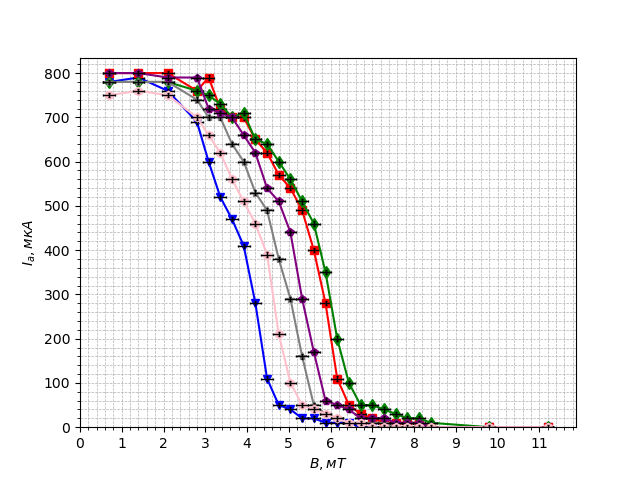
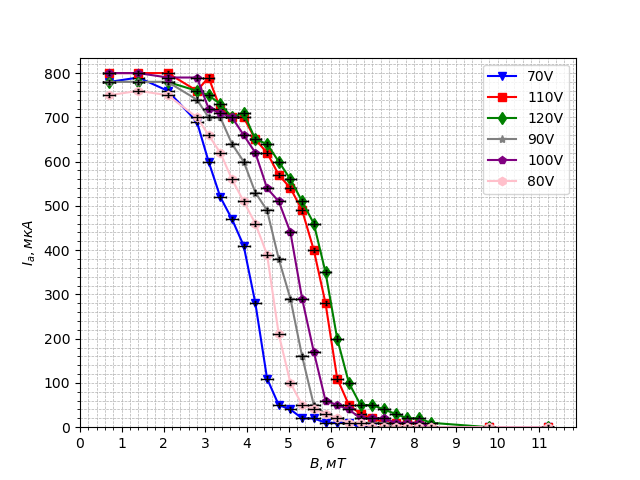
graphs for magnet

Changed region(s): [[0.75, 0.125, 0.9062, 0.4062]]

diff --git a/3.3.1/magnet_all.py b/3.3.1/magnet_all.py
@@ -62,15 +62,18 @@ for count, file_path in enumerate(csv_files, start=0):
     # Аппроксимация данных методом наименьших квадратов
     params, params_covariance = curve_fit(linear_func, x_data, y_data)
 
-    plt.plot(x_data, y_data, color='blue')
+    color  = ['blue', 'red', 'green', 'gray', 'purple', 'pink']
+    marker = ['v', 's', 'd', '*', 'p', 'h']
+
+
+    plt.plot(x_data, y_data, color=color[count], marker=marker[count], label=file_name)
 
     # Построение графика с погрешностями
-    plt.errorbar(	  x_data
+    plt.errorbar(	x_data
                  	, y_data
                     , yerr=y_err
                     , xerr=x_err
                     , fmt=''
-                    , label='Данные'
                     , color='red'
                     , ecolor='black'
                     , elinewidth=1
@@ -99,15 +102,14 @@ for count, file_path in enumerate(csv_files, start=0):
     # Оформление графика
     plt.xlabel('$'+x_label+'$')
     plt.ylabel('$'+y_label+'$')
-    plt.title(file_name)
-    # plt.legend()
 
+    plt.legend()
     # Сохранение графика в файл с таким же названием, как у CSV-файла
-    output_file = f"{output_dir}/{file_name}_colored.png"
-    plt.savefig(output_file)
+output_file = f"{output_dir}/all.png"
+plt.savefig(output_file)
 
     # Очистка текущей фигуры для построения следующего графика
-    plt.clf()
+    # plt.clf()
 
     # Выводим сообщение о сохранении графика
-    print(f"График для {file_name} сохранён как: {output_file}")
+print(f"График для {file_name} сохранён как: {output_file}")
